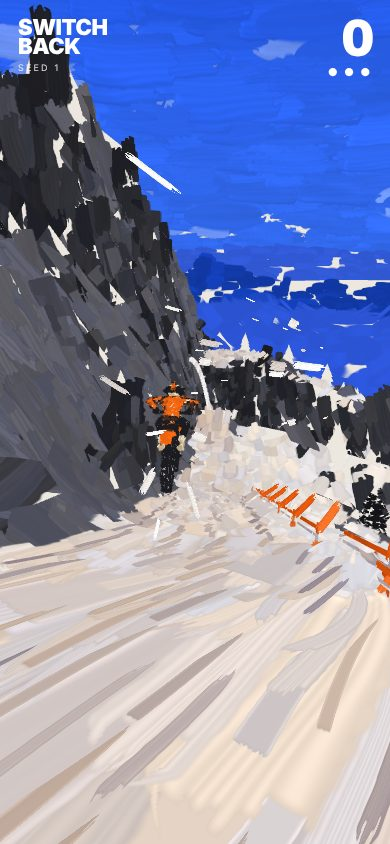
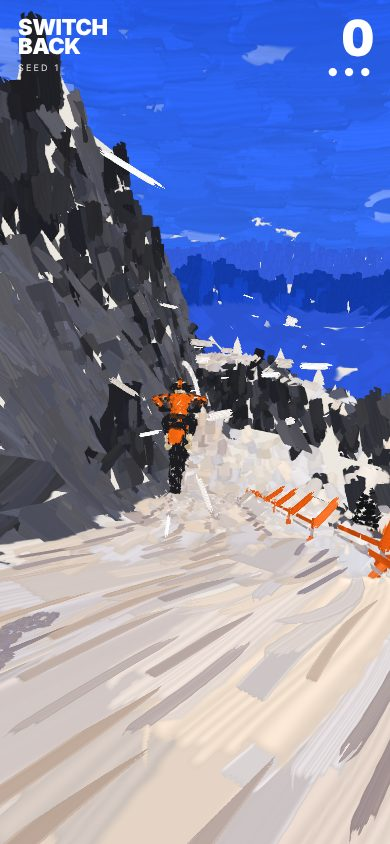
lab/switchback: far peaks brushed down their fall, no paper on the snow
The ranges' strokes run down each face's fall line, sized to the facet, and
aren't culled for facing away (their flanks were bare paper). River and valley
faces count as backdrop, capped per face.

Claude-Session: https://claude.ai/code/session_01XxjdrEubiC3ZZ3ppUeUc93

diff --git a/cells/lab/client/switchback/paint.ts b/cells/lab/client/switchback/paint.ts
@@ -167,7 +167,7 @@ export function strokesOver(verts: Float32Array, seed: number, line: number[] | 
     if (area < 1e-5) continue;
     nx /= nl; ny /= nl; nz /= nl;
     const mx = (ax + bx + cx) / 3, mz = (az + bz + cz) / 3;
-    const backdrop = BACKDROP.has(m), ground = !moving && (ROAD.has(m) || GROUND.has(m) || ROCKY.has(m)), thing = !backdrop && !ground;
+    const backdrop = BACKDROP.has(m) || (!line && !moving), ground = !moving && (ROAD.has(m) || GROUND.has(m) || ROCKY.has(m)), thing = !backdrop && !ground;
     // (the road's middle nearest the face: how far off it is, the road's way there, its station)
     let d = 0, lx = 0, lz = 1, px = mx, pz = mz, st = NEVER;
     if (line && !moving) {
@@ -176,7 +176,9 @@ export function strokesOver(verts: Float32Array, seed: number, line: number[] | 
       d = Math.sqrt(best);
     }
     const emit = (tx: number, ty: number, tz: number, Ls: number, Ws: number, cover: number, pass: number, stamps: number[], jit: number, bendA: number, kind: number) => {
-      const want = (area * cover) / (Ls * Ws);
+      // (never more than a few hundred to a face: the valley's floor is a few faces kilometres across, and uncapped asked for
+      // hundreds of thousands, leaving nothing for the ridges after it)
+      const want = Math.min(backdrop ? 260 : 1e9, (area * cover) / (Ls * Ws));
       let k = Math.floor(want) + (R() < want - Math.floor(want) ? 1 : 0);
       while (k-- > 0) {
         let a = R(), b = R(); if (a + b > 1) { a = 1 - a; b = 1 - b; }
@@ -207,8 +209,13 @@ export function strokesOver(verts: Float32Array, seed: number, line: number[] | 
     const along = () => { const dp = lx * nx + lz * nz; const x = lx - nx * dp, y = -ny * dp, z = lz - nz * dp; const l = Math.hypot(x, y, z) || 1; return [x / l, y / l, z / l]; };
     if (backdrop) {
       // (the far off as the reference has it: a few large calm planes, level, laid edge to edge so no paper shows through)
-      const [tx, ty, tz] = fl > 0.12 ? across() : along(), Ls = Math.max(20, Math.min(420, Math.sqrt(area) * 1.1));
-      emit(tx, ty, tz, Ls, Ls * 0.5, 8, 0, [11, 7, 11], 0.15, 0.12, 0);
+      // (a peak's faces brushed down their fall, as a painter cuts a mountain's planes, snow and rock alike; only what's
+      // nearly level (the valley floor) laid level. Sized to the face, so a tall thin facet gets a long narrow stroke that
+      // fills it rather than level dabs that leave paper between them)
+      const steep = fl > 0.25, [tx, ty, tz] = steep ? [fx / fl, fy / fl, fz / fl] : along();
+      const e = Math.max(Math.hypot(ux, uy, uz), Math.hypot(vx, vy, vz), Math.hypot(cx - bx, cy - by, cz - bz)), Ls = Math.max(20, Math.min(420, steep ? e * 0.55 : Math.sqrt(area) * 1.1));
+      const snow = m === M.MTNSNOW || m === M.FARSNOW;
+      emit(tx, ty, tz, Ls, Ls * (steep ? 0.32 : 0.5), 8, 0, steep ? (snow ? [11, 0, 7] : [0, 5, 7, 13]) : [11, 7, 11], steep ? 0.35 : 0.15, 0.15, 0);
       continue;
     }
     let tx: number, ty: number, tz: number;
@@ -259,7 +266,9 @@ void main(){
   float keep = sky || both || far ? 1. : uDens*mix(1., .5, smoothstep(80., 900., dist));
   // (a stroke on a face turned away from the eye isn't laid (a thing, thin, is painted on both sides): it shrinks away as its
   // face turns from the eye, rather than going at once; so nothing lifted toward the eye shows through from behind an edge)
-  if (!sky && !both) g *= smoothstep(-.02, .12, dot(n, V));
+  // (not the backdrop's: seen far off and edge on, a peak's flanks turned (by their normal) from the eye were left bare
+  // paper; what's behind a range is hidden by its depth anyway)
+  if (!sky && !both && !far) g *= smoothstep(-.02, .12, dot(n, V));
   if (!sky && dot(n, V) < 0.) n = -n;
   // (thinned with distance: a stroke past its turn shrinks away over a little more distance, rather than going at once)
   g *= clamp((keep - h(seed, 12.9898))/.12 + 1., 0., 1.);
@@ -351,7 +360,7 @@ export class Painter {
   /** how much the strokes stretch along their motion (`stretch=` 0…2); how many are kept (0…1) */
   stretch = 1; dens = 1;
   /** the paint front: how far ahead of the rider the masses and the detail are laid, how long a stroke takes to lay (m) */
-  lead: [number, number] = [420, 110]; grow = 22;
+  lead: [number, number] = [700, 110]; grow = 22;
   private front: [number, number] | null = null; private born = performance.now(); private last = performance.now();
   constructor(private gl: WebGL2RenderingContext, palette: Float32Array, sun: number[]) {
     const sh = (t: number, s: string) => { const o = gl.createShader(t)!; gl.shaderSource(o, s); gl.compileShader(o); if (!gl.getShaderParameter(o, gl.COMPILE_STATUS)) throw new Error(gl.getShaderInfoLog(o) ?? 'shader'); return o; };

diff --git a/cells/lab/client/switchback/main.ts b/cells/lab/client/switchback/main.ts
@@ -14,7 +14,7 @@
  * the lab's listing shows it, the sim's run with its score and calls, riding again when it ends); `look=side|front|rear|quarter`
  * a close look at the bike. Any of these skips the title. `ruts=bolts` the ruts as they were before they were carved
  * (`ruts=light`, with them, paler than the road). `wake=fixed` the air on the rider as it was
- * (three streaks set at the helmet and the bars); `wake=0` none on the rider at all. `paint=0|1` the look for this page (painted is the default, and a setting): everything painted in brush strokes, laid by a paint front ahead of you (`stretch=0…2` how far its strokes stretch along their motion; `front=420,110` how far ahead the front lays the masses and the detail).
+ * (three streaks set at the helmet and the bars); `wake=0` none on the rider at all. `paint=0|1` the look for this page (painted is the default, and a setting): everything painted in brush strokes, laid by a paint front ahead of you (`stretch=0…2` how far its strokes stretch along their motion; `front=700,110` how far ahead the front lays the masses and the detail).
  */
 import { Course } from './course';
 import { BODY, Rider, TRICKS, autoSteer, VMAX } from './sim';
@@ -62,7 +62,7 @@ if (q.get('ruts') === 'bolts') { rd.rutStyle = 'bolts'; rd.trail.cut = false; }
 /** `paint=1`: the mountain laid in brush strokes over its facets (paint.ts); `stretch=` how far its strokes stretch along their motion (0 none, 1 as drawn, 2 twice) */
 /** the look: painted (the default) or cut facets; kept in the settings, `paint=0|1` for this page only */
 const paintFlag = q.has('paint') ? q.get('paint') !== '0' : null;
-/** `front=420,110`: how far ahead of the rider the paint front lays the masses and the detail (m) */
+/** `front=700,110`: how far ahead of the rider the paint front lays the masses and the detail (m) */
 if (q.has('front')) { const [a, b] = (q.get('front') ?? '').split(',').map(Number); if (a > 0 && b > 0) rd.leadWanted = [a, b]; }
 if (q.has('stretch')) rd.stretchWanted = Math.max(0, Math.min(2, Number(q.get('stretch')) || 0));
 rd.style = q.get('rider') === 'facets' ? 'facets' : q.get('rider') === 'sil' ? 'sil' : 'cut'; rd.whip = (Number(q.get('whip') ?? 0) * Math.PI) / 180; rd.world = q.get('world') !== '0';

diff --git a/cells/lab/client/switchback/render.ts b/cells/lab/client/switchback/render.ts
@@ -204,13 +204,15 @@ export class Renderer {
       // (where things stand, in the stencil: 2 the backdrop, 1 anything near; nothing drawn)
       gl.colorMask(false, false, false, false); gl.disable(gl.DEPTH_TEST); gl.enable(gl.STENCIL_TEST); gl.stencilOp(gl.KEEP, gl.KEEP, gl.REPLACE); gl.stencilFunc(gl.ALWAYS, 2, 0xff);
       gl.uniform1f(this.u.uFog, 0); gl.uniform3f(this.u.uOff, off[0], off[1], off[2]); this.ranges.draw(); this.valley.draw();
-      gl.stencilFunc(gl.ALWAYS, 1, 0xff); near();
-      gl.stencilOp(gl.KEEP, gl.KEEP, gl.KEEP);
+      // (what's near marks only where it's seen: hidden behind the ground, a fall or a far chunk would otherwise claim
+      // its whole outline, and nothing would paint there)
+      gl.enable(gl.DEPTH_TEST); gl.clear(gl.DEPTH_BUFFER_BIT); gl.stencilFunc(gl.ALWAYS, 1, 0xff); near();
+      gl.stencilOp(gl.KEEP, gl.KEEP, gl.KEEP); gl.disable(gl.DEPTH_TEST);
       // (the sky, only where nothing stands)
       gl.colorMask(true, true, true, true); gl.stencilFunc(gl.EQUAL, 0, 0xff);
       paintBegin(); if (this.skyS) pt.draw(this.skyS, view.eye, false); pt.end(); gl.useProgram(this.prog);
       // (the backdrop, by its own depth, only where nothing near stands)
-      gl.enable(gl.DEPTH_TEST); gl.colorMask(false, false, false, false); gl.stencilFunc(gl.ALWAYS, 0, 0xff);
+      gl.enable(gl.DEPTH_TEST); gl.clear(gl.DEPTH_BUFFER_BIT); gl.colorMask(false, false, false, false); gl.stencilFunc(gl.ALWAYS, 0, 0xff);
       gl.uniform3f(this.u.uOff, off[0], off[1], off[2]); this.ranges.draw(); this.valley.draw();
       gl.colorMask(true, true, true, true); gl.stencilFunc(gl.NOTEQUAL, 1, 0xff);
       paintBegin(); for (const b of this.backStrokes) pt.draw(b, off, false); pt.end(); gl.useProgram(this.prog);

diff --git a/cells/lab/static/switchback.md b/cells/lab/static/switchback.md
@@ -110,16 +110,16 @@ Painted is the default look; **SETTINGS › LOOK** switches between PAINTED and 
 
 An experiment in drawing the mountain as paint, after looking closely at a brush-shader snowboard prototype (Brush Rush) and its sibling (Paris Freestyle). Everything you see is a brush stroke on paper: the sky, the ranges, the mountain, the road, the fence, the pines, the flags, the rider and its shadow. Nothing is underpainted: the facets are still built, but only drawn into the depth, for what hides what.
 
-- **Strokes with a reason to be where they are.** Planted on the ground's faces when a chunk is built, in two passes: the **masses** (big and broad) and the **detail** over them. They run the way the ground runs: along the road and the snow beside it, turning across the slope further off, down the face on rock, level on the far ranges. Fine by the road, broad away from it, so the picture simplifies where you're not looking. Things (the fence, the posts, the pines, the kickers, the rider, a flag) are painted in small strokes along each face's longest edge, on both sides; what moves is painted afresh each frame, each face's strokes seeded by the face, so they stay put on it.
+- **Strokes with a reason to be where they are.** Planted on the ground's faces when a chunk is built, in two passes: the **masses** (big and broad) and the **detail** over them. They run the way the ground runs: along the road and the snow beside it, turning across the slope further off, down the face on rock, down their fall on the far peaks (snow and rock alike), level on the valley floor. Fine by the road, broad away from it, so the picture simplifies where you're not looking. Things (the fence, the posts, the pines, the kickers, the rider, a flag) are painted in small strokes along each face's longest edge, on both sides; what moves is painted afresh each frame, each face's strokes seeded by the face, so they stay put on it.
 - **Laid in the world, so they hold still** (after Brush Rush). A stroke lies on its face along its own way; across it, its width turns from lying on the face toward facing the eye as it gets further off, so it never thins to a sliver. Nothing about how it lies comes from the screen, so it can't swing as the eye moves (they were built on the screen at first, their direction from the way their face ran on the picture and their motion since the last frame, and they swung and jumped as you rode). Its depth is lifted toward the eye along the line to the eye (on the ground a little, more the further; on a thing by half its own size), so it clears its own face, and it's tested pixel by pixel against the facets' depth: hidden where something stands in front. The sky is painted only where nothing stands, the ranges only where nothing near stands (a stencil), so a gap shows paper, never the wrong thing behind. Strokes are blended (premultiplied) in a fixed order: they were drawn with alpha-to-coverage, whose dithered samples crawled wherever strokes overlapped.
-- **The paint front.** The mountain is painted in ahead of you. Each stroke is laid, tail to head, as a front passes its station: the masses' front well ahead (420 m, out in the haze), the detail's close (110 m), so you see the snow's and the rock's detail brushed in over the masses as you come. Strokes just laid are a little lighter for a moment, wet. As the page opens the fronts set out from the rider and run on ahead; put back at a checkpoint, what's laid stays laid. `front=420,110` sets them.
+- **The paint front.** The mountain is painted in ahead of you. Each stroke is laid, tail to head, as a front passes its station: the masses' front past the furthest built (700 m), the detail's close (110 m), so you see the snow's and the rock's detail brushed in over the masses as you come. Strokes just laid are a little lighter for a moment, wet. As the page opens the fronts set out from the rider and run on ahead; put back at a checkpoint, what's laid stays laid. `front=700,110` sets them.
 - **Covered.** The masses overlap; strokes thinned out with distance grow to cover what the others left; near the eye they stay broad (as a painting's foreground), never wider than a part of the screen. A few percent of paper shows, mostly at silhouettes.
 - **The facets' own colours.** Each stroke takes its face's band as the facets pick it (a little jittered), its bristles mixing toward the band next to it.
 - **No strokes from behind.** A stroke on a face turned away from the eye isn't laid (it shrinks away as its face turns), as in Brush Rush, so a stroke lifted toward the eye never shows through an edge from the far side; the ground's outward side is up (it's a height field, cliffs included). Things thin enough to be seen from either side (the fence's tape, a flag) are painted on both.
 - **Nothing pops.** A stroke whose turn to be thinned out with distance comes shrinks away rather than going at once. What's built afresh each frame keeps its strokes: the rider by its faces, the flags and the falls by where they are; the gouges aren't painted (they're cut to the eye, so their faces change as you ride), the road's own strokes running along it instead.
 - **The speed in the marks, near the eye.** Within about 14 m of the eye (gone by 30 m), at pace every stroke turns, on its own face, toward the way the eye is going and draws out by as far as the eye goes in a moment (the eye's smoothed motion in the world: one way for every stroke, so they hold steady), so the ground and the rock just round you fall into line and stream past; further off the subject alone lays each stroke (`stretch=0` none, `stretch=2` twice). Your track and the rider's shadow are laid flat, as the ground is. The shadow lies on the road ahead and behind where it falls, not on a level plane at the rider's feet (which a slope going away left standing in the air).
 - **Strokes the course calls for.** Laid deliberately from the course, not scattered over faces, each lying on the surface (its normal the surface's own there): the road's two edges in long strokes following it, the drop's lip as a lit edge of snow, and the **ruts**, the worn lines down the road as `ruts.ts` has them, a step darker than the road (the gouges, cut to the eye each frame, can't be painted; these are the same lines, fixed to the course). No wall-foot shade: those strokes spiked out of the slope rather than lying on it. The rider's shadow is painted, flat on the road where it falls.
-- **The far off.** The ranges and the valley are laid in a few large calm planes, level, edge to edge, never thinned with distance (thinned, they went to blotches on paper), each plane nearly one colour (no jitter of band or warmth).
+- **The far off.** The ranges and the valley are laid in a few large calm planes, edge to edge, never thinned with distance (thinned, they went to blotches on paper), each plane nearly one colour (no jitter of band or warmth). A peak's faces are brushed down their fall, as a painter cuts a mountain's planes, a long narrow stroke sized to its facet, so the snow is painted white, not left as paper; only the nearly level valley floor is laid level, and never more than a few hundred strokes to a face. The ranges' strokes aren't dropped for facing away from the eye, as the near ones are: seen far off and edge on, a peak's flanks were left bare paper, and what's behind a range is hidden by its depth anyway.
 - **The speed layer too.** Its shards, the smears off the posts, the air off the rider and the debris are laid with the same stamps, tinted: a wedge becomes a long stroke tapering the same way, a chip a dab.
 
 The marks come from an atlas of sixteen brush stamps made when the page loads: flats, rounds, a dab, dry flats running out, a long flat, flicks (heavy at the start, whipped thin, curving), impasto (a few thick bristles, deep ridges, ragged edges), a scumble (dragged dry over the paper's tooth), a wash (soft-edged, smooth), a fan (bristles splayed), a palette knife (flat, hard-edged, cut on a slant, paint ridged at its sides) and a rake. Each is a brush of bristles that clump (bands of their own widths), every bristle with its own load of paint, touching down and lifting a little apart from the rest, running dry along the stroke, and piling paint where it lifts. Each subject has its own brushes: the road flats and the knife; the snow rounds, dabs, washes, scumbles, fans and flicks; the rock dry flats, impasto, the knife and the rake; the far ranges long flats and washes. And no two strokes are alike: each a little lighter or darker, warmer or cooler. They.re drawn instanced, blended (premultiplied) in a fixed order, far chunks first.
@@ -179,7 +179,7 @@ All made in the page (WebAudio, no files):
 
 ## Flags
 
-`paint=0|1` the look for this page (painted is the default, and a setting): everything painted in brush strokes, laid by a paint front ahead of you (`stretch=0…2`: how far they stretch along their motion; `front=420,110`: how far ahead the masses and the detail are laid) · `seed=` the mountain · `mode=run|lives|time|endless` the mode for this page (THREE LIVES unless chosen) · `auto` the rider rides itself (`auto=tricks` showing off, as on the title), a run like yours in the page's mode: scored, its tricks called, its lives or kilometres shown, ended as the mode ends with its card, but never kept on your board (a touch takes over, and the run still isn't kept; AGAIN rides the sim's run again) · (any flag below skips the title) · `fx=0` no speed layer · `fog=0` no distance fade (both for judging a frame) · `rider=sil|facets`, `whip=`, `world=0` the rider studies (above) · `t=` start that many seconds down the run (ridden there by the auto rider) · `still` hold the frame · `preview` no HUD.
+`paint=0|1` the look for this page (painted is the default, and a setting): everything painted in brush strokes, laid by a paint front ahead of you (`stretch=0…2`: how far they stretch along their motion; `front=700,110`: how far ahead the masses and the detail are laid) · `seed=` the mountain · `mode=run|lives|time|endless` the mode for this page (THREE LIVES unless chosen) · `auto` the rider rides itself (`auto=tricks` showing off, as on the title), a run like yours in the page's mode: scored, its tricks called, its lives or kilometres shown, ended as the mode ends with its card, but never kept on your board (a touch takes over, and the run still isn't kept; AGAIN rides the sim's run again) · (any flag below skips the title) · `fx=0` no speed layer · `fog=0` no distance fade (both for judging a frame) · `rider=sil|facets`, `whip=`, `world=0` the rider studies (above) · `t=` start that many seconds down the run (ridden there by the auto rider) · `still` hold the frame · `preview` no HUD.
 
 ## Tests
 

diff --git a/cells/lab/static/switchback/views.md b/cells/lab/static/switchback/views.md
@@ -16,7 +16,7 @@ Made by `node cells/lab/views.mjs switchback` from `client/switchback/views.mjs`
 
 ## Painted
 
-![Painted (`paint=1`): the same frame with nothing but brush strokes on paper: the road and the snow by it along the way, the rock brushed down its face, the ranges in level marks, the sky in strokes, the rider and its shadow too](v-painted.jpg)
+![Painted (`paint=1`): the same frame with nothing but brush strokes on paper: the road and the snow by it along the way, the rock brushed down its face, the far peaks brushed down their fall, the sky in strokes, the rider and its shadow too](v-painted.jpg)
 ![Painted, riding: at speed: each stroke stretched along its own motion on the screen, so the speed is in the ground’s own marks](v-painted-ride.jpg)
 
 ## The bike and rider
